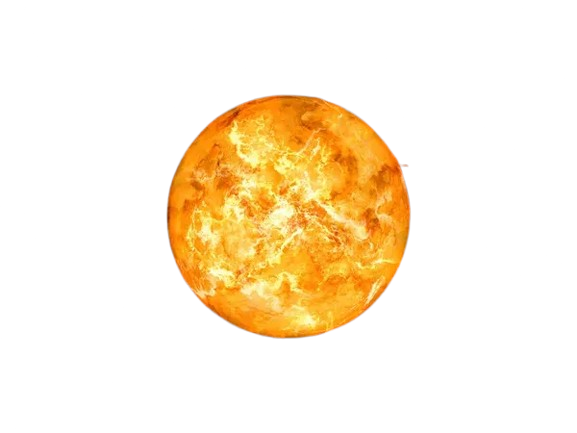
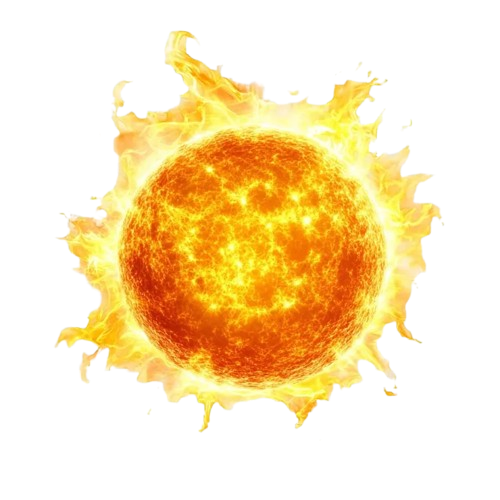
Update sun image scaling in assets.py to 150x150 for enhanced visual quality in Solar System Simulation.

diff --git a/assets.py b/assets.py
@@ -37,7 +37,7 @@ VENUS_IMG = pygame.transform.scale(
 
 SUN_IMG = pygame.transform.scale(
     pygame.image.load("assets/sun.png").convert_alpha(),
-    (120, 120)
+    (150, 150)
 )
 
 SATURN_IMG = pygame.transform.scale(